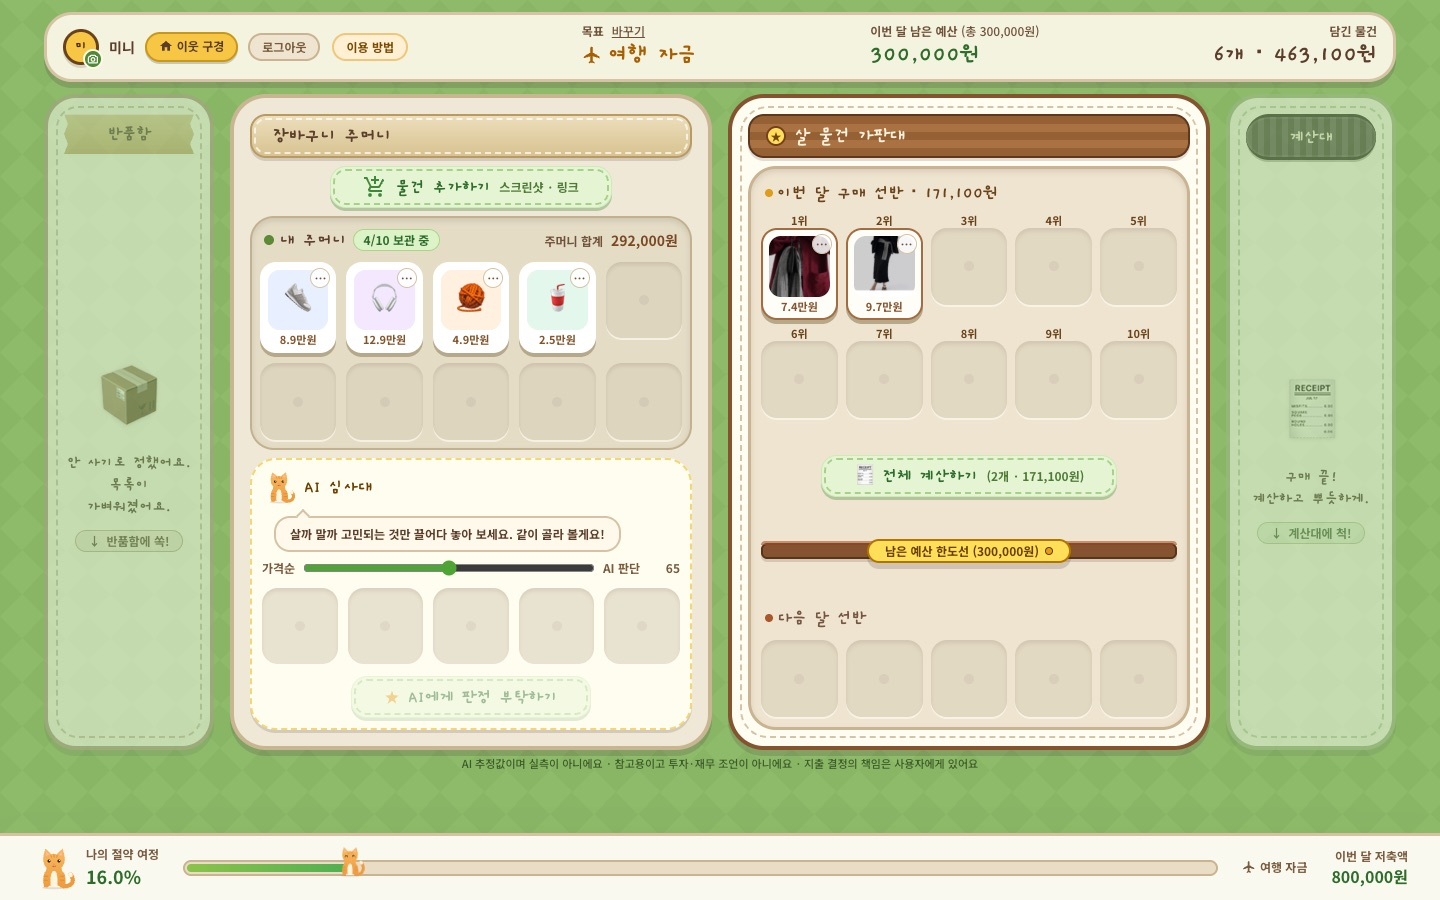
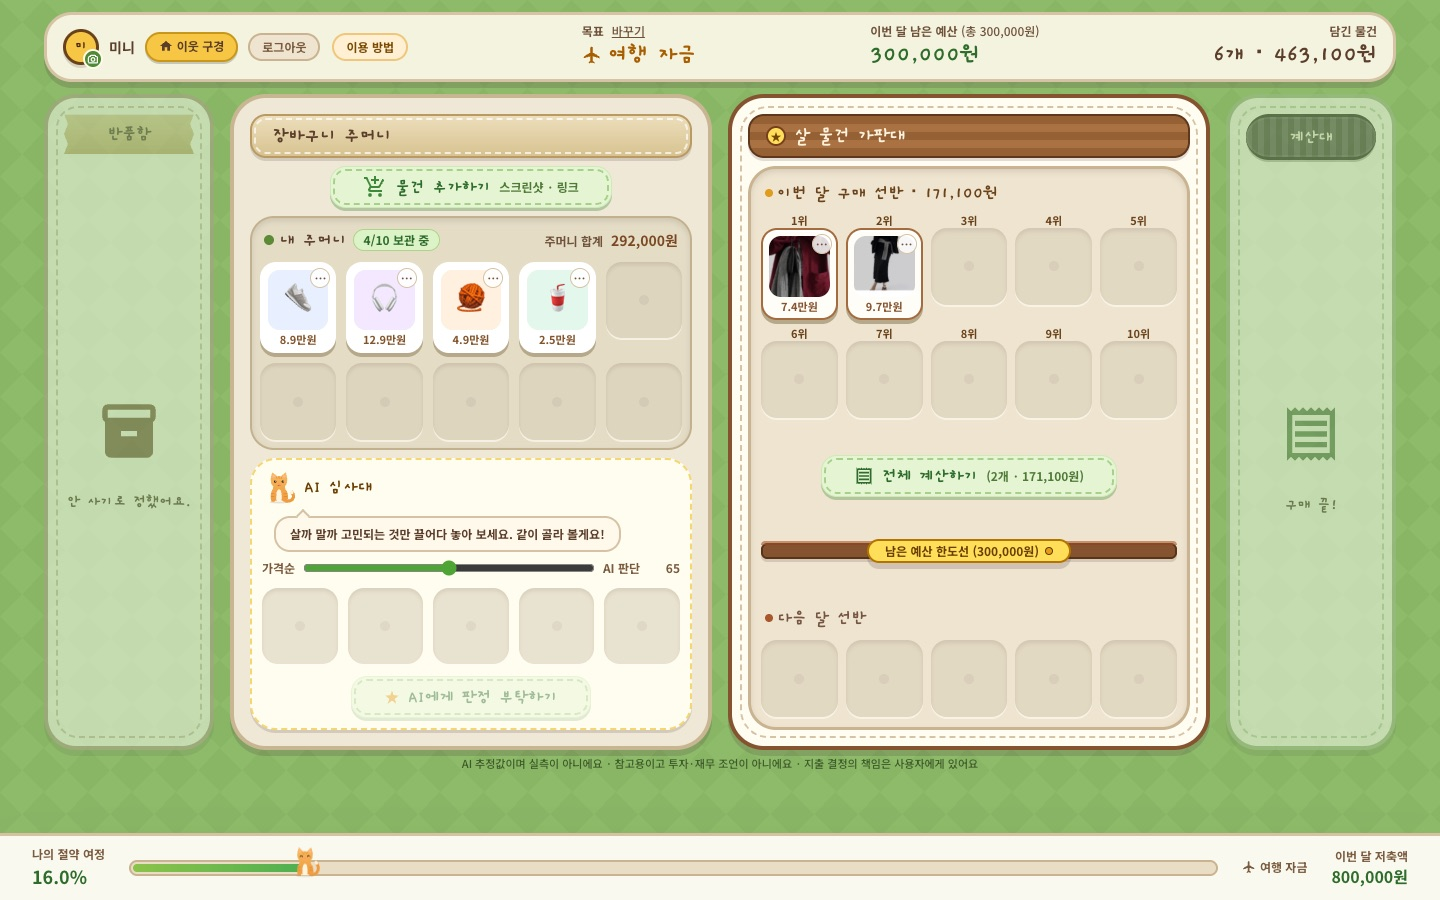
feat: retake tutorial captures for the new judging flow
Claude-Session: https://claude.ai/code/session_01E2ETKusnCuC6rpomWA3M8D

diff --git a/src/components/Tutorial.tsx b/src/components/Tutorial.tsx
@@ -28,13 +28,13 @@ const SLIDES = [
     body: "(클릭해서 옮길 수도 있어요)",
   },
   {
-    img: "/tutorial/5-result.jpg",
+    img: "/tutorial/4-judge.jpg",
     title: "③ AI가 같이 골라 줘요",
     lead: "고민되는 물건만 AI 심사대에 올리고 판정을 받아 보세요.",
-    body: "AI는 순서를 제안만 해요. 마음에 안 들면 가판대에서 직접 순서를 바꾸면 되고, 최종 결정은 언제나 내가 해요.",
+    body: "물건마다 점수가 매겨지고, 마우스를 올리면 이유가 보여요. 마음에 들면 \"가판대로 옮기기\"를 눌러요. 순서는 가판대에서 직접 바꿀 수 있고, 결정은 언제나 내가 해요.",
   },
   {
-    img: "/tutorial/6-bulk.jpg",
+    img: "/tutorial/5-bulk.jpg",
     title: "④ 정리하면 끝!",
     lead: "예산 안 물건은 이번 달 선반, 넘는 물건은 다음 달 선반으로 자동으로 나뉘어요.",
     body: "산 물건은 계산대로, 안 사기로 한 물건은 반품함으로 보내면 목록이 가벼워져요.",
